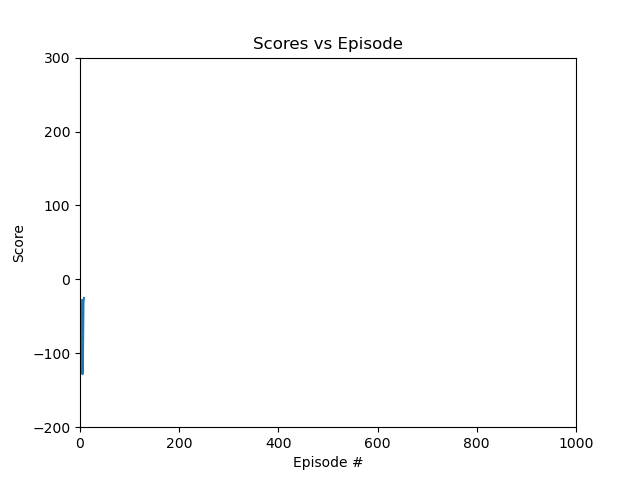
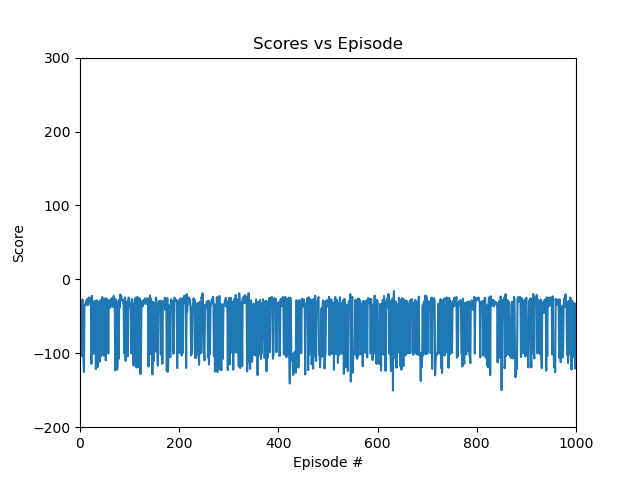
change some values to improve performance

Changed region(s): [[0.125, 0.5938, 0.9062, 0.8125]]

diff --git a/main.py b/main.py
@@ -58,15 +58,15 @@ def plotEpisode(myGraph, xval, yval, epScore, plotLine, i):
     myGraph.savefig("./ScoreEpisodePlot")
 
 def runEpisode(MAX_TIMESTEPS, bipedalWalker, env, qLearning, episode):
-    state = bipedalWalker.normalizeState(env.reset()[0:14][0])
+    state = bipedalWalker.normalizeState(env.reset()[0][0:24])
     total_reward = 0
     print(f"\n\nEpisode {episode}: ========================================================================")
     for step in range(MAX_TIMESTEPS):
         action = qLearning.getAction(state)
         next_state , reward , terminated , truncated , _ = env.step(bipedalWalker.denormalizeAction(action))
-        next_state = bipedalWalker.normalizeState(next_state[0:14])
+        next_state = bipedalWalker.normalizeState(next_state[0:24])
         qLearning.update(state, action, next_state, reward, alpha, gamma)
-        print(f"\t\treward: {reward} for action {action}")
+        # print(f"\t\treward: {reward} for action {action}")
         total_reward += reward
         done = terminated or truncated or step == MAX_TIMESTEPS -1
         if done:

diff --git a/qlearning.py b/qlearning.py
@@ -20,6 +20,7 @@ class QLearningAgent():
             return self.QValues[state][action]
         return 0.0
 
+#behine sazi action
     def getLegalActions(self):
       if (len(self.legalActions)):
           return self.legalActions
